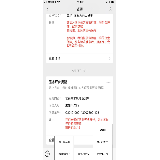
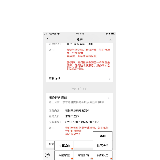
add gongzhonghao link
add gongzhonghao link

diff --git a/miniapp_UX/index.html b/miniapp_UX/index.html
@@ -5602,18 +5602,33 @@
       <URL>58602C1C0FF9FF93177C5FFF5B64D39C.jpg</URL>
     </control>
     <control controlID="4246FEDB-C004-443A-8F08-6DCD06A3C355" controlTypeID="Shape" x="58" y="764" w="98" h="48" zOrder="1">
+      <links eventType="AtClick" animate="AmSlideDown" animateAutoDelay="0" animateDuration="500">
+        <link targetPageID="44D2F1B0-8C1F-478F-8308-57D673B7646F" linkType="ltPageLink" isApplyIncludePage="False" title="%E6%88%91%E7%9A%84%E5%AE%B6(%E8%AE%AF%E6%81%AF%E6%B5%81%EF%BC%89">
+          <area shape="0" alt="" ID="{C4450B75-8C83-4172-96C2-7AEF815116D6}" coords="(0,0,98,48)"/>
+        </link>
+      </links>
       <font family="%E5%BE%AE%E8%BD%AF%E9%9B%85%E9%BB%91" displayName="%E5%BE%AE%E8%BD%AF%E9%9B%85%E9%BB%91" postScript="" weightStyle="Regular" weight="400" isBold="False" isItalic="False"/>
       <text>%E6%88%91%E7%9A%84%E5%AE%B6%E5%BA%AD</text>
       <textSize>14</textSize>
       <selectedIndex>-1</selectedIndex>
     </control>
     <control controlID="D9703DA7-D369-4954-9432-1C77B89BD760" controlTypeID="Shape" x="156" y="764" w="98" h="48" zOrder="2">
+      <links eventType="AtClick" animate="AmSlideDown" animateAutoDelay="0" animateDuration="500">
+        <link targetPageID="2C03ADB3-EFE3-446D-870D-1408EED065A2" linkType="ltPageLink" isApplyIncludePage="False" title="%E6%8A%A5%E5%91%8A">
+          <area shape="0" alt="" ID="{B895BE1B-3C53-4CE4-B4CA-95F271DF91B0}" coords="(0,0,98,48)"/>
+        </link>
+      </links>
       <font family="%E5%BE%AE%E8%BD%AF%E9%9B%85%E9%BB%91" displayName="%E5%BE%AE%E8%BD%AF%E9%9B%85%E9%BB%91" postScript="" weightStyle="Regular" weight="400" isBold="False" isItalic="False"/>
       <text>%E5%AE%B6%E5%BA%AD%E6%8A%A5%E5%91%8A</text>
       <textSize>14</textSize>
       <selectedIndex>-1</selectedIndex>
     </control>
     <control controlID="1A3C040A-841E-406E-AA8E-3F04095DEC27" controlTypeID="Shape" x="254" y="764" w="98" h="48" zOrder="3">
+      <links eventType="AtClick" animate="AmSlideDown" animateAutoDelay="0" animateDuration="500">
+        <link targetPageID="C8FA96B2-4181-4364-9DA3-A9FE9E7BC9D1" linkType="ltPageLink" isApplyIncludePage="False" title="%E7%99%BB%E5%85%A5%E9%A1%B5">
+          <area shape="0" alt="" ID="{2CC3CEE6-DD1B-491E-8286-D5CA982F0B71}" coords="(0,0,98,48)"/>
+        </link>
+      </links>
       <font family="%E5%BE%AE%E8%BD%AF%E9%9B%85%E9%BB%91" displayName="%E5%BE%AE%E8%BD%AF%E9%9B%85%E9%BB%91" postScript="" weightStyle="Regular" weight="400" isBold="False" isItalic="False"/>
       <text>%E6%88%91%E7%9A%84%E8%AE%BE%E5%AE%9A</text>
       <textSize>14</textSize>
@@ -5632,6 +5647,11 @@
       <selectedIndex>-1</selectedIndex>
     </control>
     <control controlID="B5B290E3-4395-4323-B131-CCC051CA78D4" controlTypeID="Shape" x="58" y="715" w="98" h="48" zOrder="6">
+      <links eventType="AtClick" animate="AmSlideDown" animateAutoDelay="0" animateDuration="500">
+        <link targetPageID="2B232BF4-26EF-45CE-BAE8-D114739DD538" linkType="ltPageLink" isApplyIncludePage="False" title="%E5%8F%91%E7%8E%B0%E9%A1%B5">
+          <area shape="0" alt="" ID="{2768BAAA-9EE7-4A6E-9DFA-386503662954}" coords="(0,0,98,48)"/>
+        </link>
+      </links>
       <font family="%E5%BE%AE%E8%BD%AF%E9%9B%85%E9%BB%91" displayName="%E5%BE%AE%E8%BD%AF%E9%9B%85%E9%BB%91" postScript="" weightStyle="Regular" weight="400" isBold="False" isItalic="False"/>
       <text>%E4%BB%8A%E6%97%A5%E6%B4%BB%E5%8A%A8</text>
       <textSize>14</textSize>
@@ -5654,17 +5674,17 @@
   <pages>
     <page name="我的家(讯息流）" ID="44D2F1B0-8C1F-478F-8308-57D673B7646F" expanded="True" code="nu7jMHouCs" thumbCode="nu7jMHouCs" status="psWhite" isfolder="False" isshownode="True">
       <images>
-        <image key="C7D1B4CE058A7FC0691E8FF41CC36AD9.svg"/>
+        <image key="DED0E6A8242D8DE296EBCBE2FFA15EDA.svg"/>
         <image key="B27E14372FFCF9075F8953DEBCF58249.png"/>
-        <image key="D08755C22A9B40B6BF65036DEC8B44B4.svg"/>
+        <image key="05E96F25418030784D7733715B300F03.png"/>
         <image key="251F1625224832C883620D9F4A9B5863.png"/>
+        <image key="C7D1B4CE058A7FC0691E8FF41CC36AD9.svg"/>
         <image key="465F7420215F741122FE38BF5E1BDDD8.svg"/>
         <image key="91852B86E51F760894554368302F9800.svg"/>
         <image key="40E39A09158BEC58EE5C5769A953E8C0.svg"/>
+        <image key="D08755C22A9B40B6BF65036DEC8B44B4.svg"/>
         <image key="C02AE8E6E300C489E9473523EA2A95F1.svg"/>
         <image key="3A3CD3DB2FAE85FFEF2A8996E634645D.svg"/>
-        <image key="DED0E6A8242D8DE296EBCBE2FFA15EDA.svg"/>
-        <image key="05E96F25418030784D7733715B300F03.png"/>
       </images>
       <page name="心愿单表单" ID="0054A628-9A3D-4642-B80B-47E185BBA320" expanded="True" code="RnYsqhwahQ" thumbCode="RnYsqhwahQ" status="psWhite" isfolder="False" isshownode="True">
         <images>
@@ -5677,7 +5697,7 @@
         </images>
         <page name="编辑心愿单" ID="AD7346C6-E726-4176-B34D-C3A911B8B26C" expanded="True" code="ZNpSq8bTXo" thumbCode="ZNpSq8bTXo" status="psWhite" isfolder="False" isshownode="True">
           <images>
-            <image key="CF608875CBE5264C89AF43F6DCCC8611.svg"/>
+            <image key="91375FEEC1D381C10FBCEA023EE8DA2F.jpg"/>
             <image key="CB1D4BD70EFAF9D0D63B9D0659D62AAA.svg"/>
             <image key="474A61FDC203C97B2EEFAF494C017CCB.svg"/>
             <image key="41BACA5C90C06C95D081FB51FB64DE31.svg"/>
@@ -5688,7 +5708,7 @@
             <image key="524D9A41776CD1EF98956BB68F9875AC.svg"/>
             <image key="D08755C22A9B40B6BF65036DEC8B44B4.svg"/>
             <image key="2F94C7EB082A423BDE58814F629D2920.jpg"/>
-            <image key="91375FEEC1D381C10FBCEA023EE8DA2F.jpg"/>
+            <image key="CF608875CBE5264C89AF43F6DCCC8611.svg"/>
           </images>
           <page name="模板选择" ID="3E2411AE-FC80-4A50-ABAF-2EC0034C13C6" expanded="True" code="wYzss2zcYe" thumbCode="wYzss2zcYe" status="psWhite" isfolder="False" isshownode="True"/>
           <page name="选择照片" ID="2CACAF4B-0039-4046-8E8C-C9E31ADC9F0E" expanded="True" code="ljRnuD4Do9" thumbCode="ljRnuD4Do9" status="psWhite" isfolder="False" isshownode="True">
@@ -5776,9 +5796,9 @@
         <page name="支付页" ID="0F704A5E-DFEC-49C6-B64C-0C3BE4290158" expanded="True" code="xCy4oX3VYG" thumbCode="xCy4oX3VYG" status="psWhite" isfolder="False" isshownode="True">
           <images>
             <image key="18C2906CF65D6AE32F626562622CA588.jpg"/>
-            <image key="91852B86E51F760894554368302F9800.svg"/>
             <image key="415215C0C27E004572DFD650EE6F1E22.png"/>
             <image key="CE5153B73E7A5262384012CC8A2D14A9.png"/>
+            <image key="91852B86E51F760894554368302F9800.svg"/>
           </images>
         </page>
         <page name="退款" ID="CC5AD8F6-D322-479A-88A1-D76261D70B8F" expanded="True" code="Mtgkb41Ttn" thumbCode="Mtgkb41Ttn" status="psWhite" isfolder="False" isshownode="True">
@@ -5831,7 +5851,7 @@
         </images>
       </page>
     </page>
-    <page name="公众号页" ID="B808060E-BEAA-4C85-A868-B6E45D28C9FC" expanded="True" code="n4JGMSLi32" thumbCode="dKtgGNpjpy" isLastOpen="True" status="psWhite" isfolder="False" isshownode="True">
+    <page name="公众号页" ID="B808060E-BEAA-4C85-A868-B6E45D28C9FC" expanded="True" code="I8zW4gdMjn" thumbCode="I8zW4gdMjn" isLastOpen="True" status="psWhite" isfolder="False" isshownode="True">
       <images>
         <image key="58602C1C0FF9FF93177C5FFF5B64D39C.jpg"/>
       </images>
